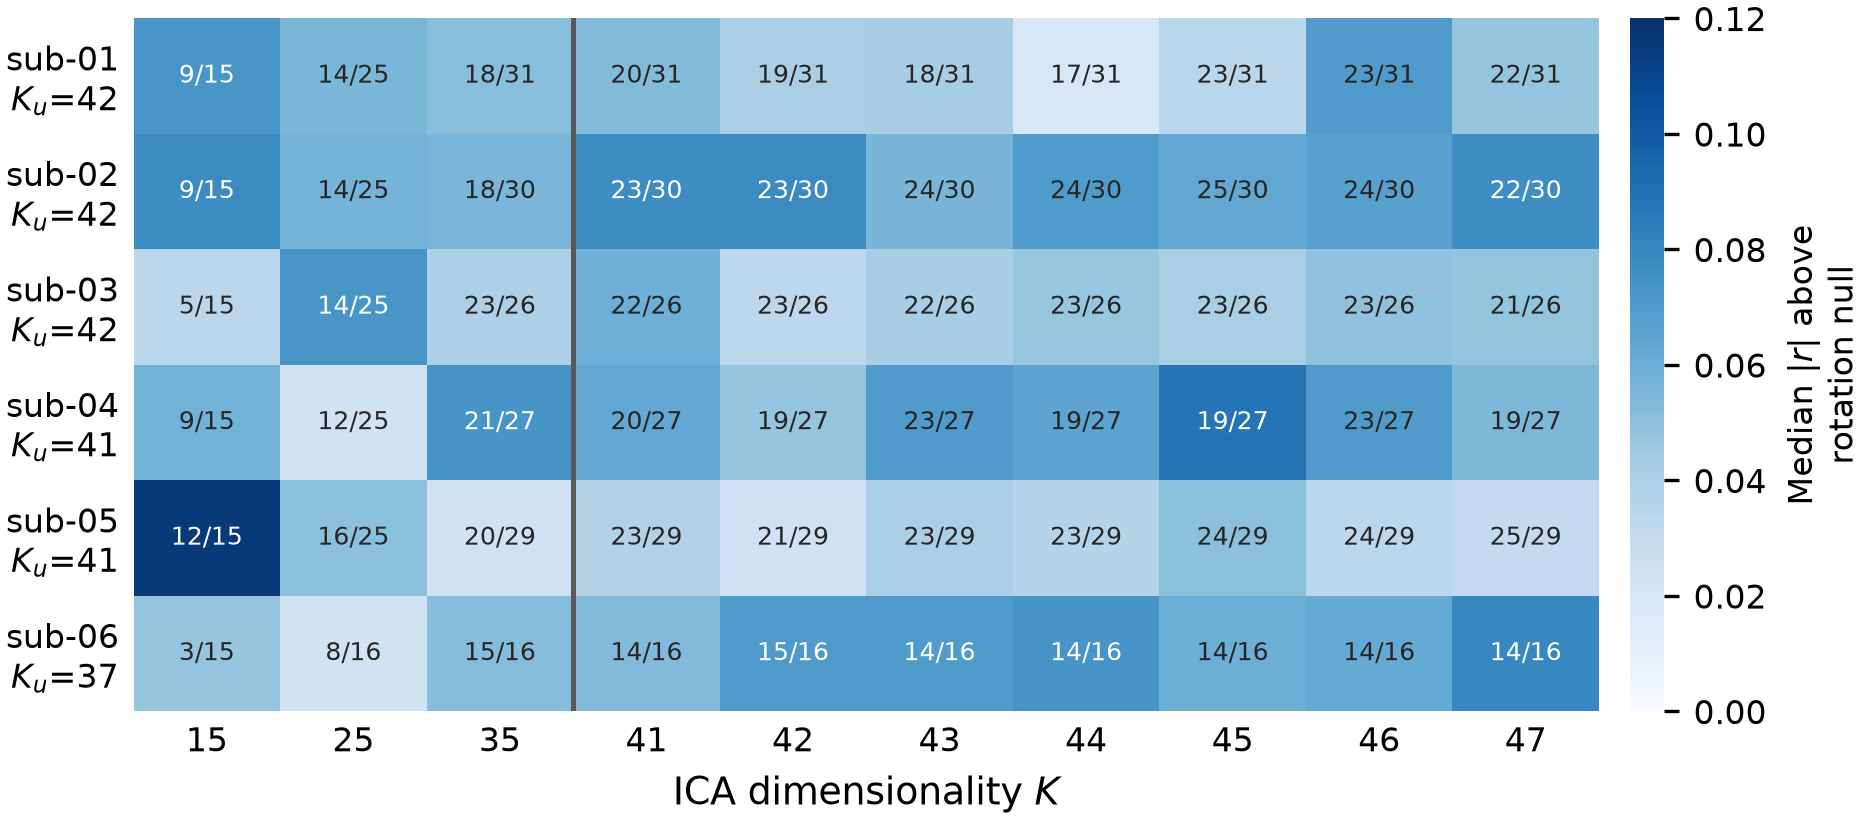
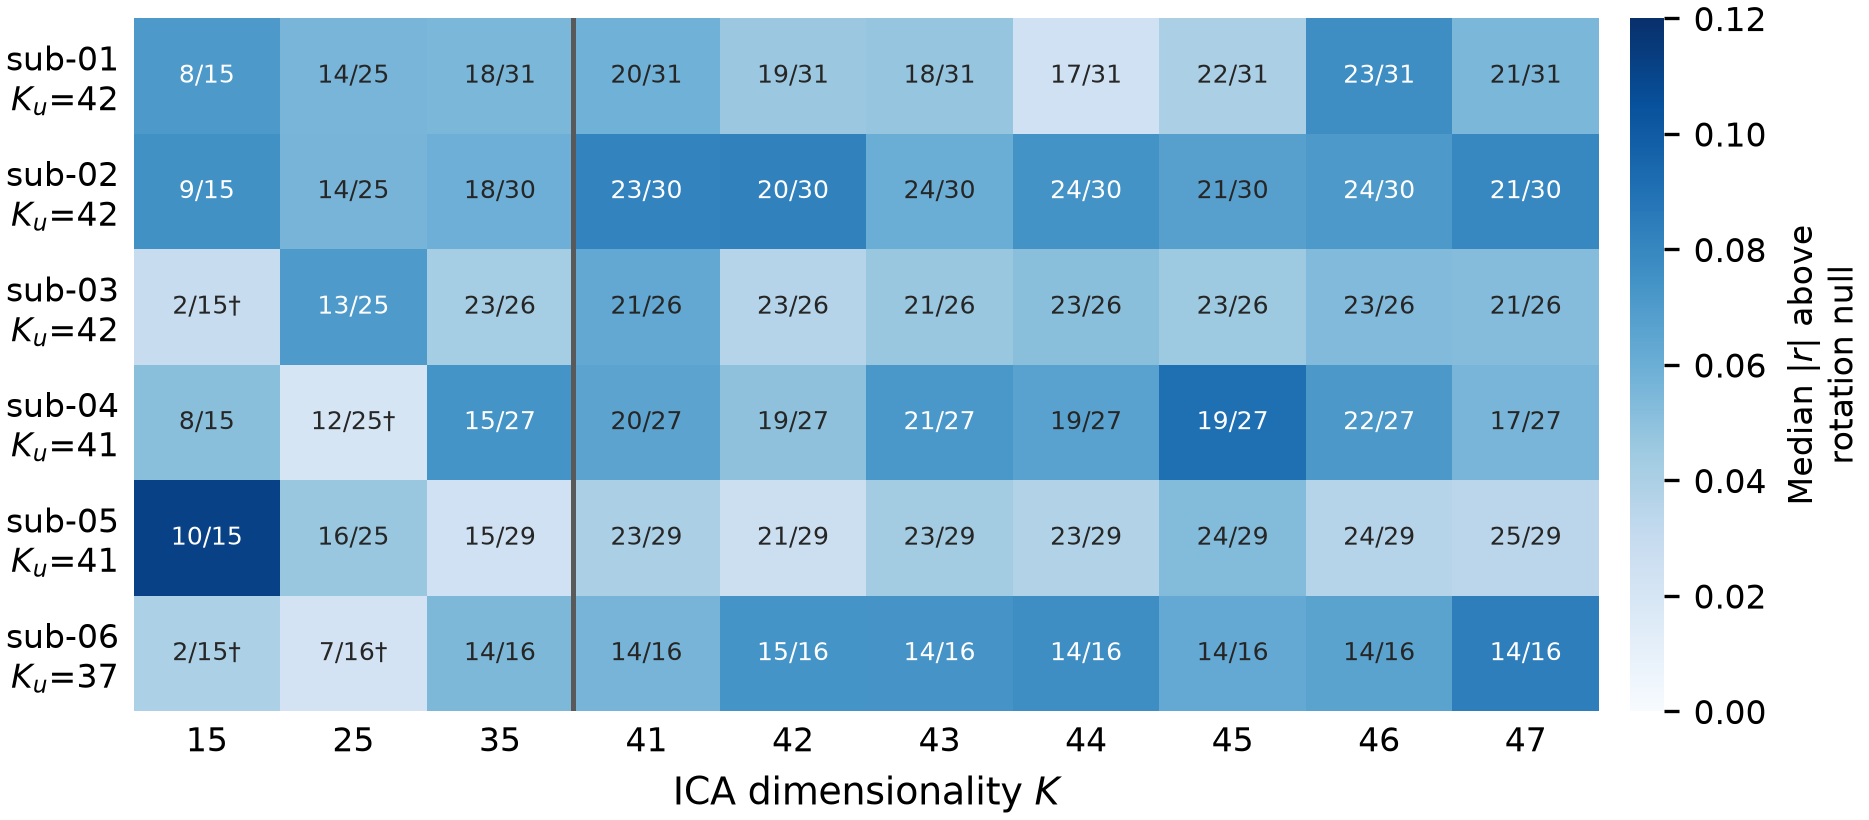
docs(si): S10 against the whitened-basis null, and the S12 recurrence sentence
The S10 caption and Panel A now report the whole-set median test (56 of 60
subject x K cells), name the four low-K exceptions, and note that sub-03 and
sub-06 converge more strongly at higher K. The S12 caption no longer says
nearly every ICA component exceeds the activity threshold in nearly every run.

diff --git a/docs/supplementary/README.md b/docs/supplementary/README.md
@@ -164,9 +164,9 @@ This assembled strip summarizes subject-level variation across multiple analyses
 **Panel B — Per-state matched absolute correlation**
 ![Absolute spatial correlation between each HMM state-mean map and its matched ICA map, per subject, with the per-subject median and rotation-null mean](figures/S10_ica_convergence_B.png)
 
-These panels test how far an alternative decomposition with different assumptions recovers the HMM state-mean maps. That alternative is independent component analysis (ICA), which maximizes spatial independence and imposes no temporal model. At each dimensionality K, ICA is fit within the subspace of the top K principal components. Per-pair significance is tested against a **subspace-rotation null**: random rotations of the same top-K basis, with Hungarian matching re-run per draw (1,000 draws, BH-FDR corrected). Panel A shows, for content-eligible states, how far the median matched absolute correlation (|r|) exceeds the null mean, with the number of FDR-surviving pairs in each cell, for six subjects and each K. Panel B shows the per-state matched |r| at each subject's K_used (the fitted model's occupied-state count, 37–42), coloured by HMM taxonomy category, with the per-subject median (solid) and null mean (dashed). Detailed numerical results are in the findings document on the `supplements` branch (linked in the catalogue table above).
+These panels test how far an alternative decomposition with different assumptions recovers the HMM state-mean maps. That alternative is independent component analysis (ICA), which maximizes spatial independence and imposes no temporal model. At each dimensionality K, ICA is fit within the subspace of the top K principal components. Per-pair significance is tested against a **subspace-rotation null**: random rotations of the same centred, whitened top-K basis that ICA rotates, with Hungarian matching re-run per draw (1,000 draws, BH-FDR corrected). Panel A shows, for content-eligible states, how far the median matched absolute correlation (|r|) exceeds the null, with the number of FDR-surviving pairs in each cell and a dagger where a whole-set test of the median is not significant (p ≥ 0.05), for six subjects and each K. Panel B shows the per-state matched |r| at each subject's K_used (the fitted model's occupied-state count, 37–42), coloured by HMM taxonomy category, with the per-subject median (solid) and null mean (dashed). Detailed numerical results are in the findings document on the `supplements` branch (linked in the catalogue table above).
 
-Most of the agreement between the two decompositions comes from the subspace they share: HMM state means lie almost entirely in the leading principal components, so even random rotations of that subspace match them well. Beyond that, ICA's rotation exceeds the null in every subject at every K, including K = 15, which is chosen independently of the HMM. The excess is +0.02 to +0.12 in median |r| and does not grow as K approaches the HMM's state count. At K_used, 7–11 ICA components per subject are focal, near-single-parcel sources with no HMM counterpart. These produce the near-zero matches in Panel B, while every HMM state has some ICA map with |r| ≥ 0.30. An independent decomposition therefore converges on the HMM's spatial axes beyond chance but does not reproduce its repertoire state by state. Matches to low-confidence, unused, or rare states indicate that those states' mean maps are recoverable within the shared subspace. They are not independent biological or content validation.
+Most of the agreement between the two decompositions comes from the subspace they share: HMM state means lie almost entirely in the leading principal components, so even random rotations of that subspace match them well. Beyond that, ICA's rotation matches the HMM better than the null by +0.02 to +0.11 in median |r|, significantly in 56 of 60 subject × K cells: in every subject from K = 35 upward, and at K = 15, which is chosen independently of the HMM, in four of six subjects. In most subjects the excess does not grow as K approaches the HMM's state count; in sub-03 and sub-06 convergence is weak at low K and strengthens with K. At K_used, 7–11 ICA components per subject are focal, near-single-parcel sources with no HMM counterpart. These produce the near-zero matches in Panel B, while every HMM state has some ICA map with |r| ≥ 0.30. An independent decomposition therefore converges on the HMM's spatial axes beyond chance but does not reproduce its repertoire state by state. Matches to low-confidence, unused, or rare states indicate that those states' mean maps are recoverable within the shared subspace. They are not independent biological or content validation.
 
 ---
 
@@ -200,7 +200,7 @@ This figure shows how recurring brain states distribute their activation energy 
 
 These six panels repeat the out-of-stimulus recurrence test using an ICA-based alternative decomposition in place of the HMM used in the main analysis. Each panel pair presents winner-take-all (hard) and continuous (soft) assignment variants for one held-out stimulus. The three stimuli (Movie10, Harry Potter, and Petit Prince) match those used in the main cross-stimulus recurrence analysis. Detailed numerical results are in the findings document on the `supplements` branch (linked in the catalogue table above).
 
-Two caveats attach to these panels. First, the ICA recurrence score is not on the same footing as the HMM recurrence score used in the main analysis: winner-take-all labelling imposes no dwell structure, so nearly every component exceeds the 2% per-run activity threshold in nearly every run. ICA component recurrence is correspondingly compressed toward the ceiling (per-subject median 0.64–0.81, with 26% of components above 0.9) relative to HMM state recurrence (per-subject median 0.45–0.51, with 3 of 269 states above 0.9). The two distributions are both continuous and broadly graded, but they are not interchangeable, so the ICA panels are not evidence that the main recurrence gradient reproduces under ICA. Second, the continuous-assignment panels are reported for completeness only: against the phase-randomized null the continuous-arm residual is mostly near zero or negative (two of 16 subject–stimulus pairs exceed it, with no consistent pattern), so that arm carries no reliable stimulus-specific signal and does not corroborate the winner-take-all result.
+Two caveats attach to these panels. First, the ICA recurrence score is not on the same footing as the HMM recurrence score used in the main analysis: winner-take-all labelling imposes no dwell structure, so most components exceed the 2% per-run activity threshold in most runs. ICA component recurrence is correspondingly shifted toward the ceiling (per-subject median 0.64–0.81, with 26% of components above 0.9) relative to HMM state recurrence (per-subject median 0.45–0.51, with 3 of 269 states above 0.9). The two distributions are both continuous and broadly graded, but they are not interchangeable, so the ICA panels are not evidence that the main recurrence gradient reproduces under ICA. Second, the continuous-assignment panels are reported for completeness only: against the phase-randomized null the continuous-arm residual is mostly near zero or negative (two of 16 subject–stimulus pairs exceed it, with no consistent pattern), so that arm carries no reliable stimulus-specific signal and does not corroborate the winner-take-all result.
 
 ---
 
